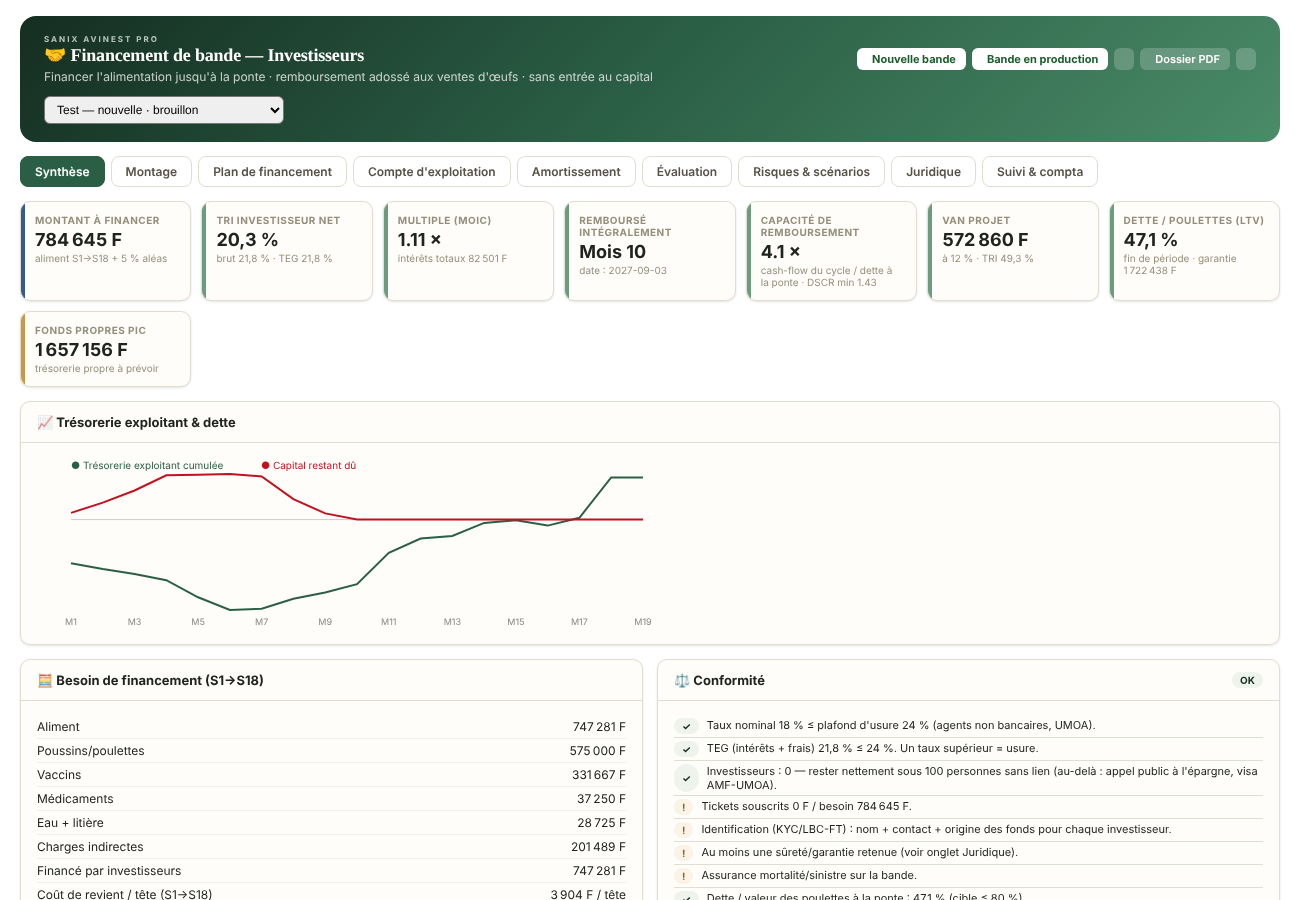
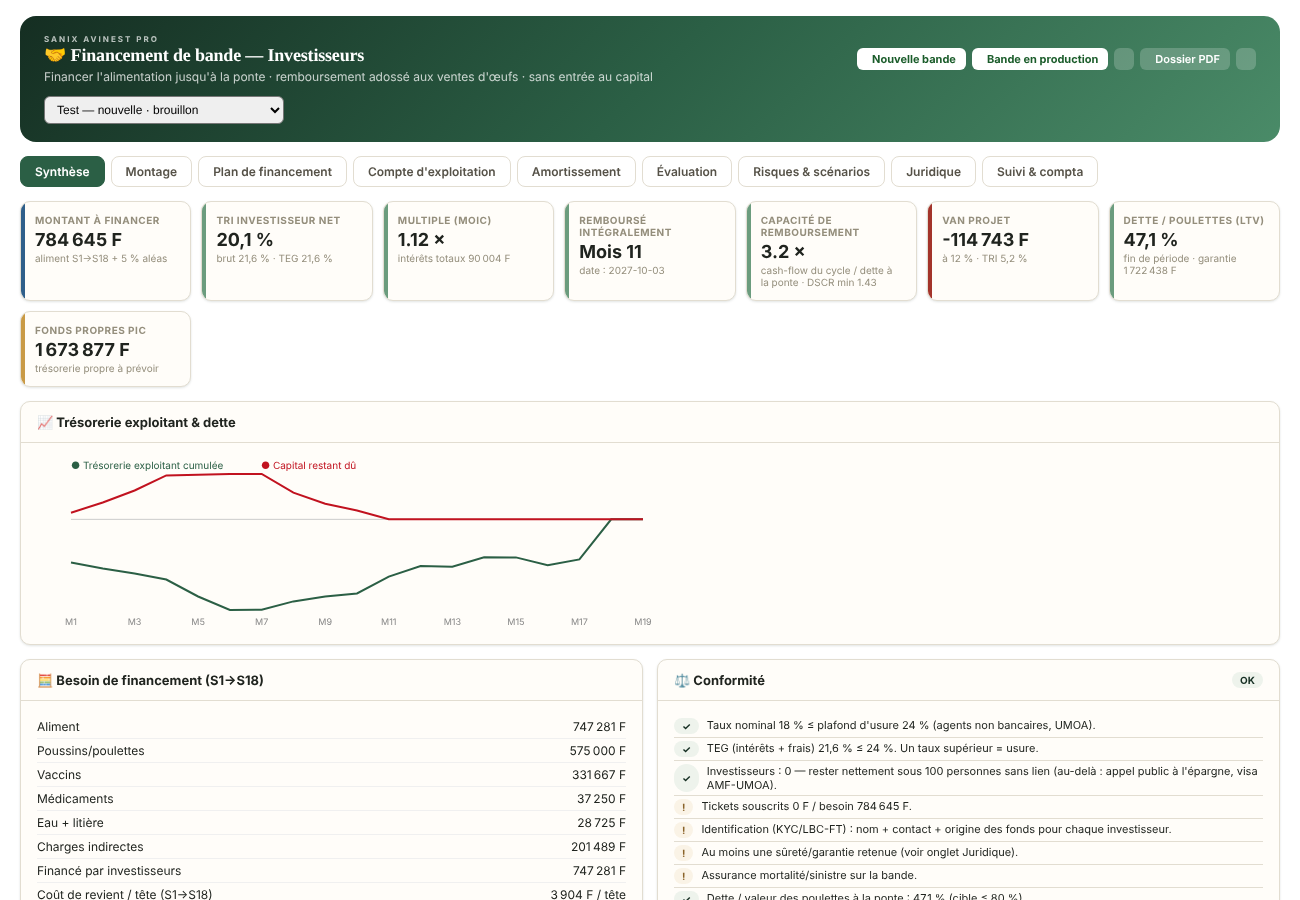
fix(simu): prix de l'œuf par défaut 73 F (prix moyen réalisé ferme-jolan)
Claude-Session: https://claude.ai/code/session_01XGyegJwan1hozCysUqiur2

diff --git a/index.html b/index.html
@@ -23036,7 +23036,7 @@ const SIMU_DEFAULTS = {
   poidsMoyenVif: 2.2,       // kg à l'abattage
   rendCarcasse: 74,         // %
   prixCarcasseKg: 2800,     // FCFA/kg carcasse
-  prixOeufUnit: 80,         // FCFA/œuf (layer) — plateau 30 œufs bord-ferme 2 400 F (fév. 2026)
+  prixOeufUnit: 73,         // FCFA/œuf (layer) — prix moyen réalisé ferme-jolan (nov. 2026) : 26 210 F/carton de 360 œufs ; bord-ferme fév. 2026 : 80 F
   tauxPonteMoy: 85,         // % moyen
   tauxCasse: 1.5,           // % œufs cassés/déclassés (réel ≈ 1,3 %)
   dureeExploitation: 14,    // semaines de ponte exploitées en simu
